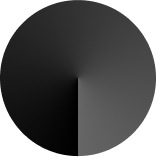
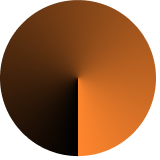
chore: update account image

diff --git a/components/LeftMenu/index.tsx b/components/LeftMenu/index.tsx
@@ -59,7 +59,7 @@ const LeftMenu = () => {
               alt="account"
               className="w-[40px] rounded-full"
             />
-            <div className="absolute -top-[2px] -right-[2px] w-[18px] h-[18px] rounded-full text-[8px] text-light-100 font-medium flex justify-center items-center bg-orange-100">
+            <div className="absolute -top-[2px] -right-[2px] w-[18px] h-[18px] rounded-full text-[8px] text-dark-100 font-medium flex justify-center items-center bg-[#FFD5B3]">
               {account?.threshold}/{account?.signers}
             </div>
           </div>

diff --git a/components/ListAccounts/Account/index.tsx b/components/ListAccounts/Account/index.tsx
@@ -185,7 +185,7 @@ const Account = ({
             />
             <div
               className={cn(
-                `absolute -top-[2px] -right-[2px] w-[18px] h-[18px] rounded-full text-[8px] text-light-100 font-medium flex justify-center items-center bg-orange-100`,
+                `absolute -top-[2px] -right-[2px] w-[18px] h-[18px] rounded-full text-[8px] text-dark-100 font-medium flex justify-center items-center bg-[#FFD5B3]`,
                 {
                   "w-[14px] h-[14px] text-[6px]": isSmall,
                 }

diff --git a/components/ListAccounts/InvitationAccount/index.tsx b/components/ListAccounts/InvitationAccount/index.tsx
@@ -38,7 +38,7 @@ const InvitationAccount = ({
           />
           <div
             className={cn(
-              `absolute -top-[2px] -right-[2px] w-[18px] h-[18px] rounded-full text-[8px] text-light-100 font-medium flex justify-center items-center bg-orange-100`,
+              `absolute -top-[2px] -right-[2px] w-[18px] h-[18px] rounded-full text-[8px] text-dark-100 font-medium flex justify-center items-center bg-[#FFD5B3]`,
               {
                 "w-[14px] h-[14px] text-[6px]": isSmall,
               }

diff --git a/components/AccountModal/index.tsx b/components/AccountModal/index.tsx
@@ -70,9 +70,9 @@ const AccountModal = () => {
           <div className="w-[1px] h-[69.71px] bg-grey-200 absolute -right-6 -top-4"></div>
           <div>
             <img
-              src="/images/account.png"
+              src="/images/wallet-account.png"
               alt="account"
-              className="w-8 rounded-full"
+              className="w-8"
             />
           </div>
           <div className="flex gap-6 items-center">
